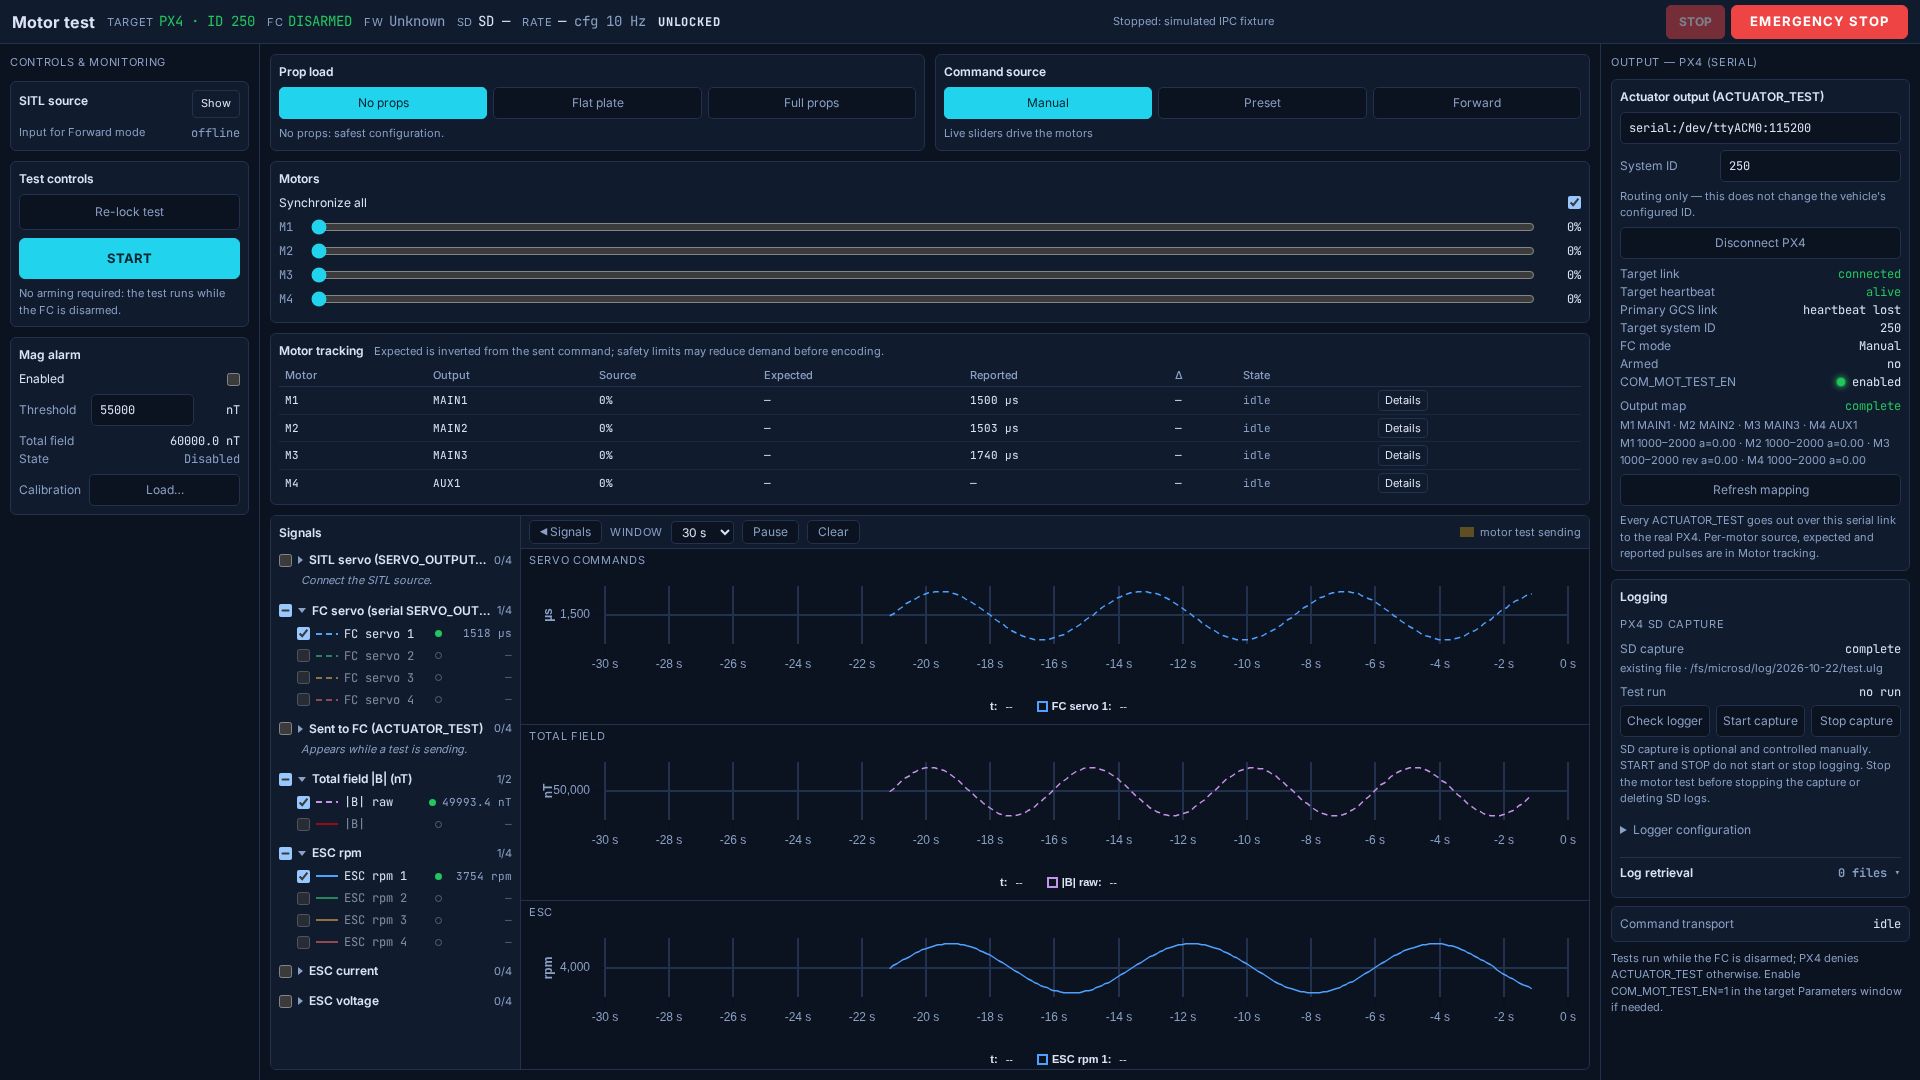
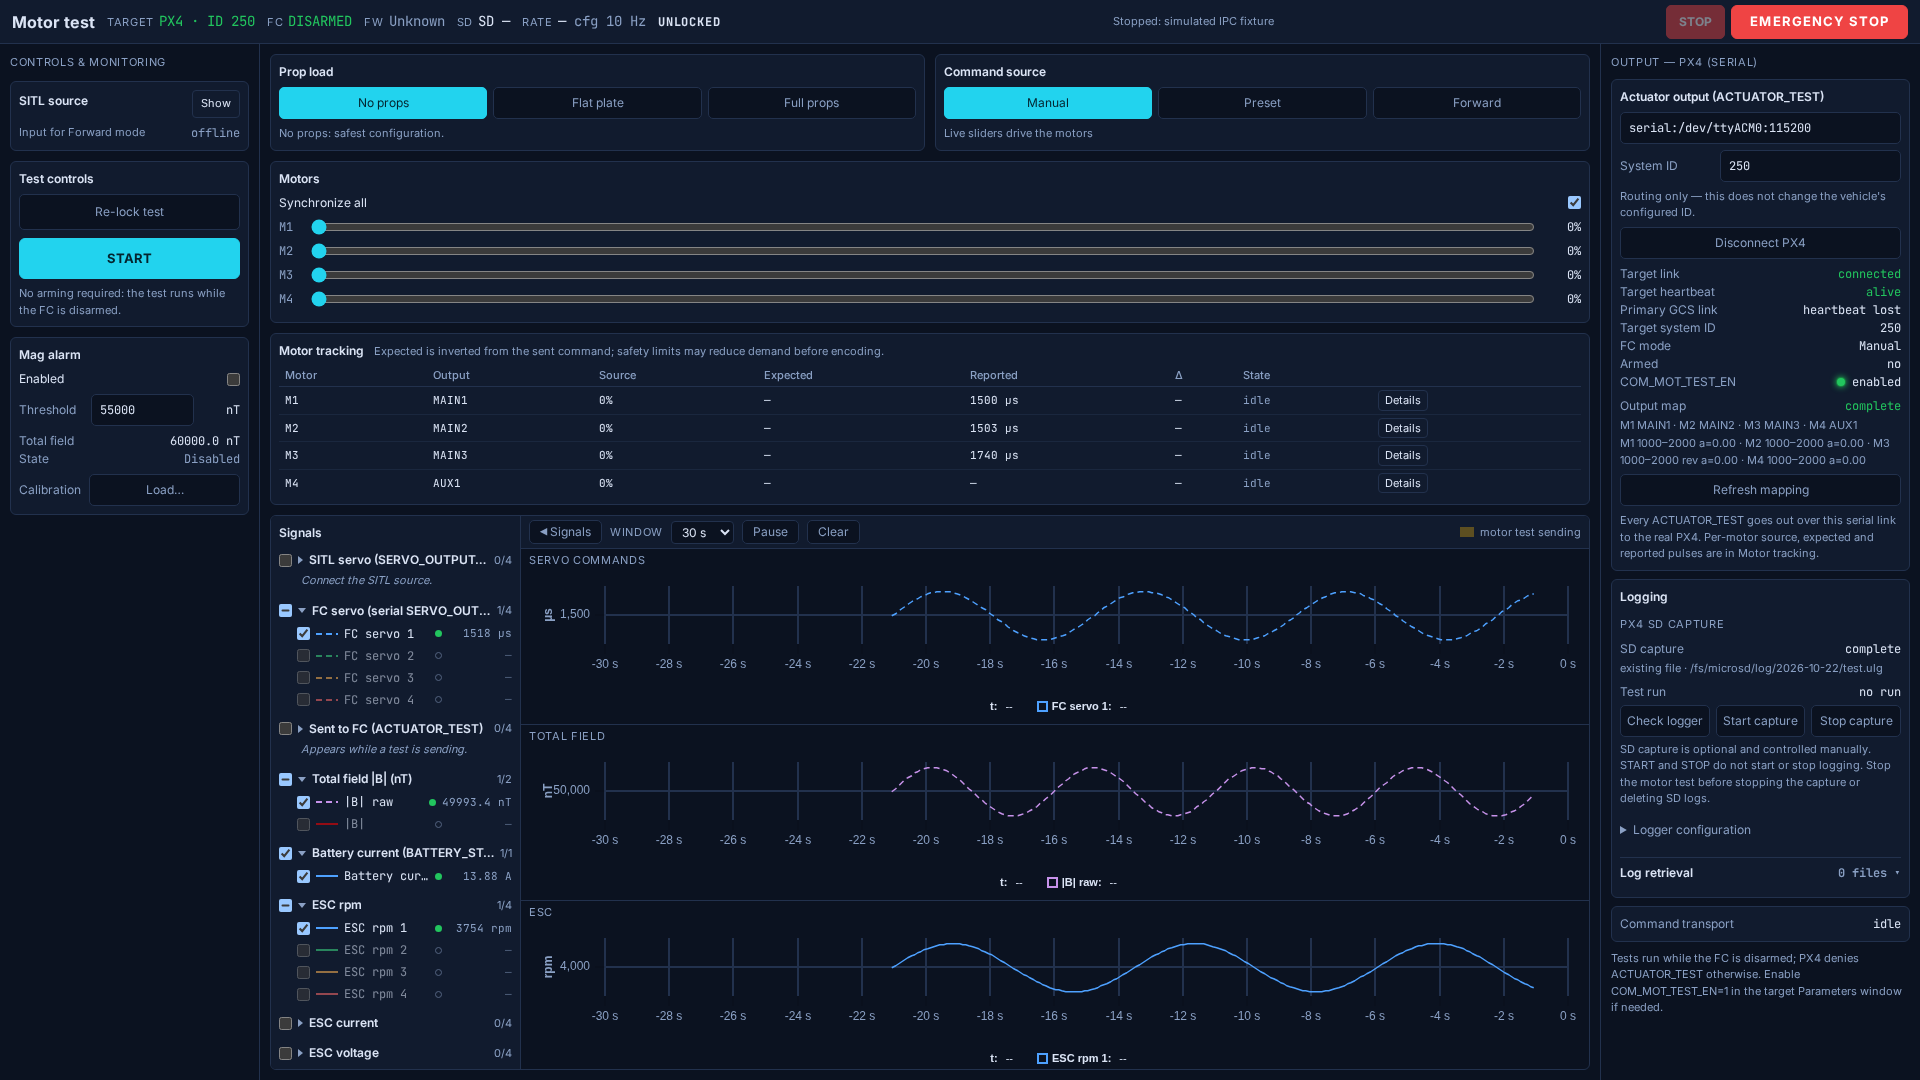
feat(motor-test): plot total battery current in the scope
The motor-test scope only read SERVO_OUTPUT_RAW, HIGHRES_IMU and ESC_STATUS, so
the pack current was not visible next to the ESC currents. The target tap now
also subscribes to BATTERY_STATUS (147), asks it at 5 Hz, and emits one
`bat{k}.current` sample per battery id (centiamps → amperes; a negative value,
"autopilot does not measure the current", emits nothing). The window adds a
Battery pane and a "Battery current (BATTERY_STATUS)" section; extra battery ids
are built on demand as `bat2..`. With a single pack, `bat1.current` is the
vehicle's total current.

check-motor-controls.mjs feeds a battery sample and asserts the fourth plot pane
and the list row.

diff --git a/frontend/src/actuator/scopeStore.ts b/frontend/src/actuator/scopeStore.ts
@@ -8,7 +8,7 @@
 // arrives — which is how "is there an RPM / current signal" gets answered.
 
 /** Which stacked plot pane a signal is drawn in. */
-export type ScopeGroup = 'cmd' | 'mag' | 'esc'
+export type ScopeGroup = 'cmd' | 'mag' | 'esc' | 'bat'
 
 export type ScopeUnit = 'µs' | '%' | 'nT' | 'rpm' | 'A' | 'V'
 
@@ -89,6 +89,15 @@ const DEFS: SignalDef[] = [
     dash: null,
     defaultOn: true,
   },
+  {
+    id: 'bat1.current',
+    group: 'bat',
+    label: 'Battery current 1',
+    unit: 'A',
+    motor: 0,
+    dash: null,
+    defaultOn: true,
+  },
   ...perMotor('esc', '.rpm', 'esc', 'rpm', 'ESC rpm', null, true),
   ...perMotor('esc', '.current', 'esc', 'A', 'ESC current', DASH_CURRENT, true),
   ...perMotor('esc', '.voltage', 'esc', 'V', 'ESC voltage', DASH_VOLT, false),
@@ -96,13 +105,28 @@ const DEFS: SignalDef[] = [
 
 const DEF_BY_ID = new Map(DEFS.map((d) => [d.id, d]))
 
-/** Definition for `id`; ESC 5–8 (and anything else well-formed) is built on
- * demand so a bigger airframe shows up without a code change. */
+/** Definition for `id`; ESC 5–8 and extra battery ids are built on demand so a
+ * bigger airframe / more batteries show up without a code change. */
 export function defOf(id: string): SignalDef | undefined {
   const known = DEF_BY_ID.get(id)
   if (known) return known
   const m = /^esc(\d+)\.(rpm|current|voltage)$/.exec(id)
-  if (!m) return undefined
+  if (!m) {
+    const b = /^bat(\d+)\.current$/.exec(id)
+    if (!b) return undefined
+    const k = Number(b[1])
+    const def: SignalDef = {
+      id,
+      group: 'bat',
+      label: `Battery current ${k}`,
+      unit: 'A',
+      motor: (k - 1) % 4,
+      dash: null,
+      defaultOn: true,
+    }
+    DEF_BY_ID.set(id, def)
+    return def
+  }
   const k = Number(m[1])
   const q = m[2] as 'rpm' | 'current' | 'voltage'
   const def: SignalDef = {
@@ -148,6 +172,13 @@ export const LIST_GROUPS: ListGroup[] = [
     ids: ['mag.raw_total', 'mag.cal_total'],
     emptyHint: (c) =>
       c.targetConnected ? 'Waiting for HIGHRES_IMU…' : 'Connect the PX4 serial link.',
+  },
+  {
+    key: 'bat',
+    title: 'Battery current (BATTERY_STATUS)',
+    ids: ['bat1.current'],
+    emptyHint: (c) =>
+      c.targetConnected ? 'Waiting for BATTERY_STATUS…' : 'Connect the PX4 serial link.',
   },
   {
     key: 'rpm',

diff --git a/frontend/src/actuator/SignalScope.tsx b/frontend/src/actuator/SignalScope.tsx
@@ -4,11 +4,13 @@
 //   - SITL servo 1–4 (µs) and the FC servo 1–4 parsed from the serial link
 //   - the command actually sent to the FC (ACTUATOR_TEST, %)
 //   - total field before / after calibration (nT)
+//   - total battery current from BATTERY_STATUS (A)
 //   - ESC rpm / current / voltage — listed as soon as ESC_STATUS arrives
 //
-// Checked signals are drawn in three stacked panes (commands / field / ESC)
-// that share one rolling time window and one cursor. Colour = motor number,
-// dash = source or quantity, so SITL vs serial for the same motor line up.
+// Checked signals are drawn in stacked panes (commands / field / ESC /
+// battery) that share one rolling time window and one cursor. Colour = motor
+// number, dash = source or quantity, so SITL vs serial for the same motor line
+// up.
 
 import { useCallback, useEffect, useMemo, useRef, useState, type MutableRefObject } from 'react'
 import uPlot from 'uplot'
@@ -40,6 +42,7 @@ const PANES: Array<{ group: ScopeGroup; title: string }> = [
   { group: 'cmd', title: 'Servo commands' },
   { group: 'mag', title: 'Total field' },
   { group: 'esc', title: 'ESC' },
+  { group: 'bat', title: 'Battery' },
 ]
 
 // ---------------------------------------------------------------- feed ---
@@ -87,6 +90,7 @@ function startMock(): () => void {
     const raw = 50_000 + 40 * Math.sin(x * 3) + 600 * ramp
     batch.push({ id: 'mag.raw_total', t, v: raw })
     batch.push({ id: 'mag.cal_total', t, v: raw - 2000 - 300 * ramp })
+    batch.push({ id: 'bat1.current', t, v: 12 * ramp * ramp })
     batch.push({ id: 'session.running', t, v: running ? 1 : 0 })
     scopeStore.ingest(batch)
   }, 50)

diff --git a/crates/app-tauri/src/actuator_service.rs b/crates/app-tauri/src/actuator_service.rs
@@ -768,8 +768,9 @@ pub async fn actuator_connect_target(
 }
 
 /// Messages the scope asks the target FC to stream: `(MAVLink id, Hz)` —
-/// `SERVO_OUTPUT_RAW`, `HIGHRES_IMU` (mag), `ESC_STATUS`.
-const TARGET_STREAMS: [(u32, f64); 3] = [(36, 20.0), (105, 50.0), (291, 10.0)];
+/// `SERVO_OUTPUT_RAW`, `HIGHRES_IMU` (mag), `BATTERY_STATUS` (current),
+/// `ESC_STATUS`.
+const TARGET_STREAMS: [(u32, f64); 4] = [(36, 20.0), (105, 50.0), (147, 5.0), (291, 10.0)];
 
 /// Fire-and-forget `MAV_CMD_SET_MESSAGE_INTERVAL` (PX4 accepts it while
 /// disarmed; a FC that lacks the stream simply never sends it).
@@ -1905,9 +1906,10 @@ pub async fn actuator_refresh_mapping(state: State<'_, AppState>) -> Result<Outp
 }
 
 /// Request the streams the motor-test window plots from the FC on `handle`:
-/// `HIGHRES_IMU` (105, the mag field), `ESC_STATUS` (291, ESC current/RPM) and
-/// `SERVO_OUTPUT_RAW` (36, the servo curves) at useful rates. A bare serial
-/// link streams only the default set otherwise, so the curves would stay flat.
+/// `HIGHRES_IMU` (105, the mag field), `BATTERY_STATUS` (147, total current),
+/// `ESC_STATUS` (291, ESC current/RPM) and `SERVO_OUTPUT_RAW` (36, the servo
+/// curves) at useful rates. A bare serial link streams only the default set
+/// otherwise, so the curves would stay flat.
 fn request_motor_test_streams(
     handle: &maggcs_core::mavlink::ConnectionHandle,
     target_system_id: u8,
@@ -1916,6 +1918,7 @@ fn request_motor_test_streams(
     tauri::async_runtime::spawn(async move {
         for (msg_id, interval_us) in [
             (105u32, 100_000u32), // HIGRES_IMU @ 10 Hz (mag total)
+            (147u32, 200_000u32), // BATTERY_STATUS @ 5 Hz (total current)
             (291u32, 100_000u32), // ESC_STATUS @ 10 Hz (current, RPM)
             (36u32, 40_000u32),   // SERVO_OUTPUT_RAW @ 25 Hz (servo curves)
         ] {
@@ -1940,11 +1943,11 @@ fn request_motor_test_streams(
     })
 }
 
-/// Attach the mag/ESC telemetry tap to a link (A4 wiring): subscribes to
-/// `HIGHRES_IMU` (105, mag triple) and `ESC_STATUS` (291), applies the loaded
-/// calibration, drives the alarm state machine, and emits
-/// `actuator_telemetry` events for the window's curves. Called from
-/// `connect` after the link comes up.
+/// Attach the mag/ESC/battery telemetry tap to a link (A4 wiring): subscribes
+/// to `HIGHRES_IMU` (105, mag triple), `BATTERY_STATUS` (147, total current) and
+/// `ESC_STATUS` (291), applies the loaded calibration, drives the alarm state
+/// machine, and emits `actuator_telemetry` events for the window's curves.
+/// Called from `connect` after the link comes up.
 pub fn attach_motor_telemetry(
     app: &AppHandle,
     handle: maggcs_core::mavlink::ConnectionHandle,
@@ -1995,10 +1998,11 @@ fn store_fc_output(
 }
 
 /// The telemetry tap: `HIGHRES_IMU` (105) → calibrated `mag_total` → alarm;
-/// `ESC_STATUS` (291) → the ESC aggregator; `SERVO_OUTPUT_RAW` (36) → the
-/// target-FC servo trace. Emits `actuator_telemetry` (aggregated snapshot)
-/// at ~10 Hz for the alarm/status readout, and pushes every sample (not a
-/// snapshot) to the scope bus.
+/// `ESC_STATUS` (291) → the ESC aggregator; `BATTERY_STATUS` (147) → the total
+/// battery current trace; `SERVO_OUTPUT_RAW` (36) → the target-FC servo trace.
+/// Emits `actuator_telemetry` (aggregated snapshot) at ~10 Hz for the
+/// alarm/status readout, and pushes every sample (not a snapshot) to the scope
+/// bus.
 async fn run_motor_telemetry_tap(
     app: AppHandle,
     handle: maggcs_core::mavlink::ConnectionHandle,
@@ -2007,7 +2011,7 @@ async fn run_motor_telemetry_tap(
     // Only telemetry from the configured target may gate motor-test safety
     // or feed the target's plots and alarm.
     let mut events = handle
-        .subscribe_route(MessageRoute::messages(&[0, 36, 105, 291]).from(target_system_id, 1));
+        .subscribe_route(MessageRoute::messages(&[0, 36, 105, 147, 291]).from(target_system_id, 1));
     let mut last_emit = tokio::time::Instant::now();
     let Some(bus) = app
         .try_state::<AppState>()
@@ -2053,6 +2057,16 @@ async fn run_motor_telemetry_tap(
                             // Transition into Alarm: fire the audio + flash.
                             let _ = app.emit("actuator_alarm", total);
                         }
+                    }
+                    MavMessage::BATTERY_STATUS(bat) => {
+                        // Total battery current (PX4 sends a negative value
+                        // when it does not measure current); the scope shows
+                        // one `bat{k}.current` trace per battery id.
+                        bus.push_all(scope::battery_samples(
+                            bat.id,
+                            now_epoch_s(),
+                            bat.current_battery,
+                        ));
                     }
                     MavMessage::ESC_STATUS(esc) => {
                         telemetry

diff --git a/crates/core/src/motor_test/scope.rs b/crates/core/src/motor_test/scope.rs
@@ -18,6 +18,7 @@
 //! | `fwd.cmd1..4`                   | value sent to the FC as ACTUATOR_TEST | %    |
 //! | `fc.servo1..4`                  | real FC `SERVO_OUTPUT_RAW` (serial)   | µs   |
 //! | `mag.raw_total`, `mag.cal_total`| `|B|` before / after calibration      | nT   |
+//! | `bat{k}.current`                | `BATTERY_STATUS` current, k = 1-based | A    |
 //! | `esc{k}.rpm/current/voltage`    | `ESC_STATUS`, k = 1-based             | rpm / A / V |
 
 use std::sync::{Arc, Mutex};
@@ -38,7 +39,6 @@ pub const MAX_PENDING: usize = 20_000;
 
 pub const MAG_RAW_TOTAL_ID: &str = "mag.raw_total";
 pub const MAG_CAL_TOTAL_ID: &str = "mag.cal_total";
-
 /// One scope sample. `t` is host epoch seconds at receive time — the only
 /// clock the SITL link, the serial link and the sender share.
 #[derive(Debug, Clone, PartialEq, Serialize)]
@@ -112,6 +112,23 @@ pub fn mag_samples(t: f64, totals: MagTotals) -> Vec<ScopeSample> {
         out.push(ScopeSample::new(MAG_CAL_TOTAL_ID.into(), t, cal));
     }
     out
+}
+
+/// `bat{k}.current` — one battery's instantaneous current in amperes; `k` is
+/// 1-based from `BATTERY_STATUS.id` (PX4's single battery is `bat1`, and is the
+/// vehicle's total current). `current_ca` is the wire value in centiamps; a
+/// negative value (`-1` = "autopilot does not measure the current") emits no
+/// sample, so the list shows the group as having no data rather than a bogus
+/// trace at `-0.01 A`.
+pub fn battery_samples(id: u8, t: f64, current_ca: i16) -> Vec<ScopeSample> {
+    if current_ca < 0 {
+        return Vec::new();
+    }
+    vec![ScopeSample::new(
+        format!("bat{}.current", u16::from(id) + 1),
+        t,
+        f64::from(current_ca) / 100.0,
+    )]
 }
 
 /// `esc{k}.rpm/current/voltage` for one `ESC_STATUS` frame. `index` is
@@ -211,6 +228,19 @@ mod tests {
         assert_eq!(s.len(), 4);
         assert!((s[0].v - 50.0).abs() < 1e-6);
         assert!((s[3].v - 100.0).abs() < 1e-6);
+    }
+
+    #[test]
+    fn battery_current_is_amps_and_numbered_from_one() {
+        let s = battery_samples(0, 1.0, 1234);
+        assert_eq!(ids(&s), vec!["bat1.current"]);
+        assert!((s[0].v - 12.34).abs() < 1e-9);
+        assert_eq!(ids(&battery_samples(1, 1.0, 50)), vec!["bat2.current"]);
+    }
+
+    #[test]
+    fn battery_without_current_measurement_emits_no_signal() {
+        assert!(battery_samples(0, 1.0, -1).is_empty());
     }
 
     #[test]

diff --git a/frontend/src/actuator/README.md b/frontend/src/actuator/README.md
@@ -11,7 +11,8 @@ magnetic monitoring, and manually controlled SD capture/log retrieval.
   SITL details open when Forward is selected and collapse for Manual/Preset;
   the operator can also toggle them explicitly.
 - **Center:** prop load and command source, the selected source's controls,
-  motor tracking, and signal plots.
+  motor tracking, and signal plots (servo commands, total field, ESC, and the
+  total battery current from `BATTERY_STATUS`).
 - **Right:** the serial target, capture/run status and actions, expandable
   read-only logger configuration, and expandable log retrieval.
 
